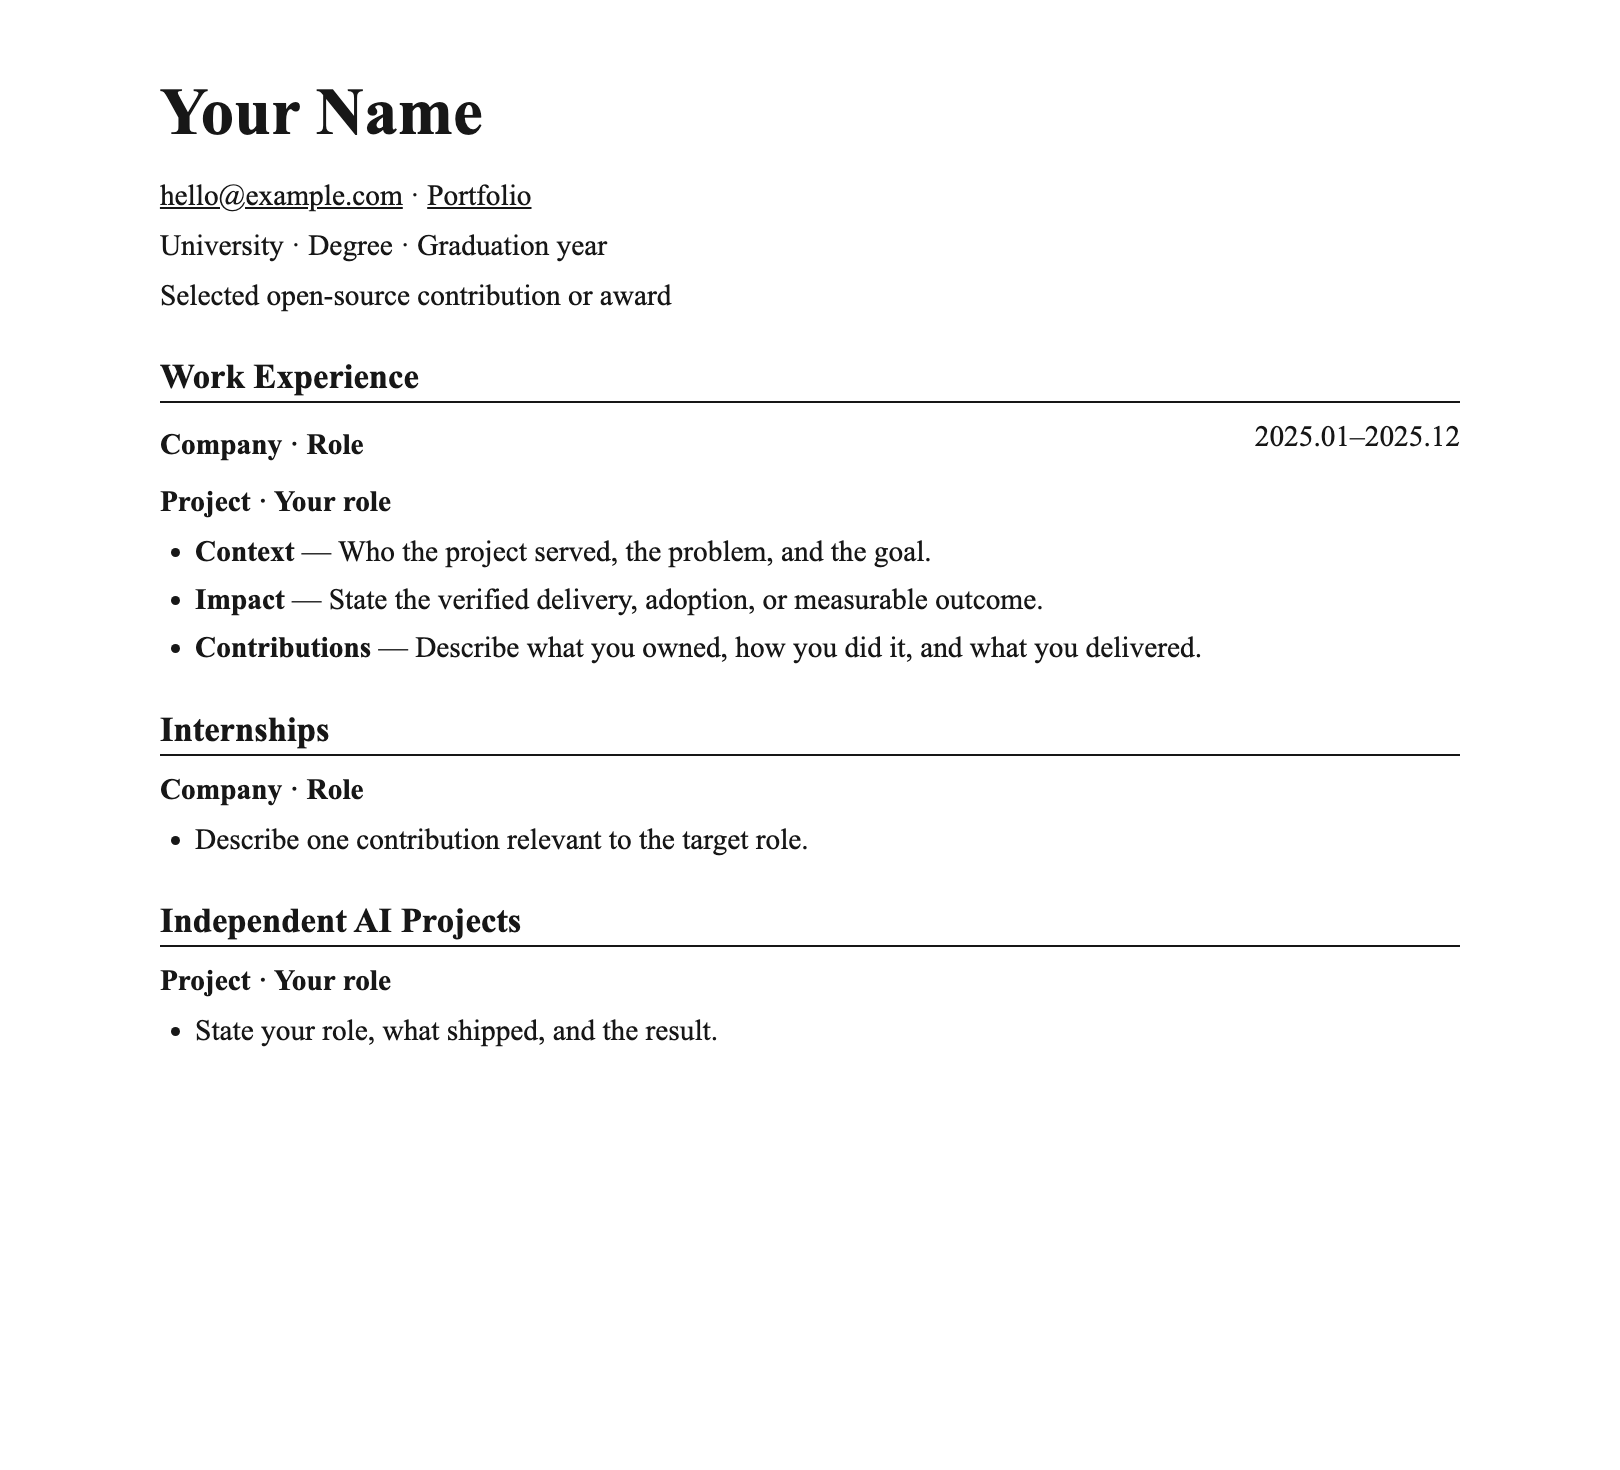
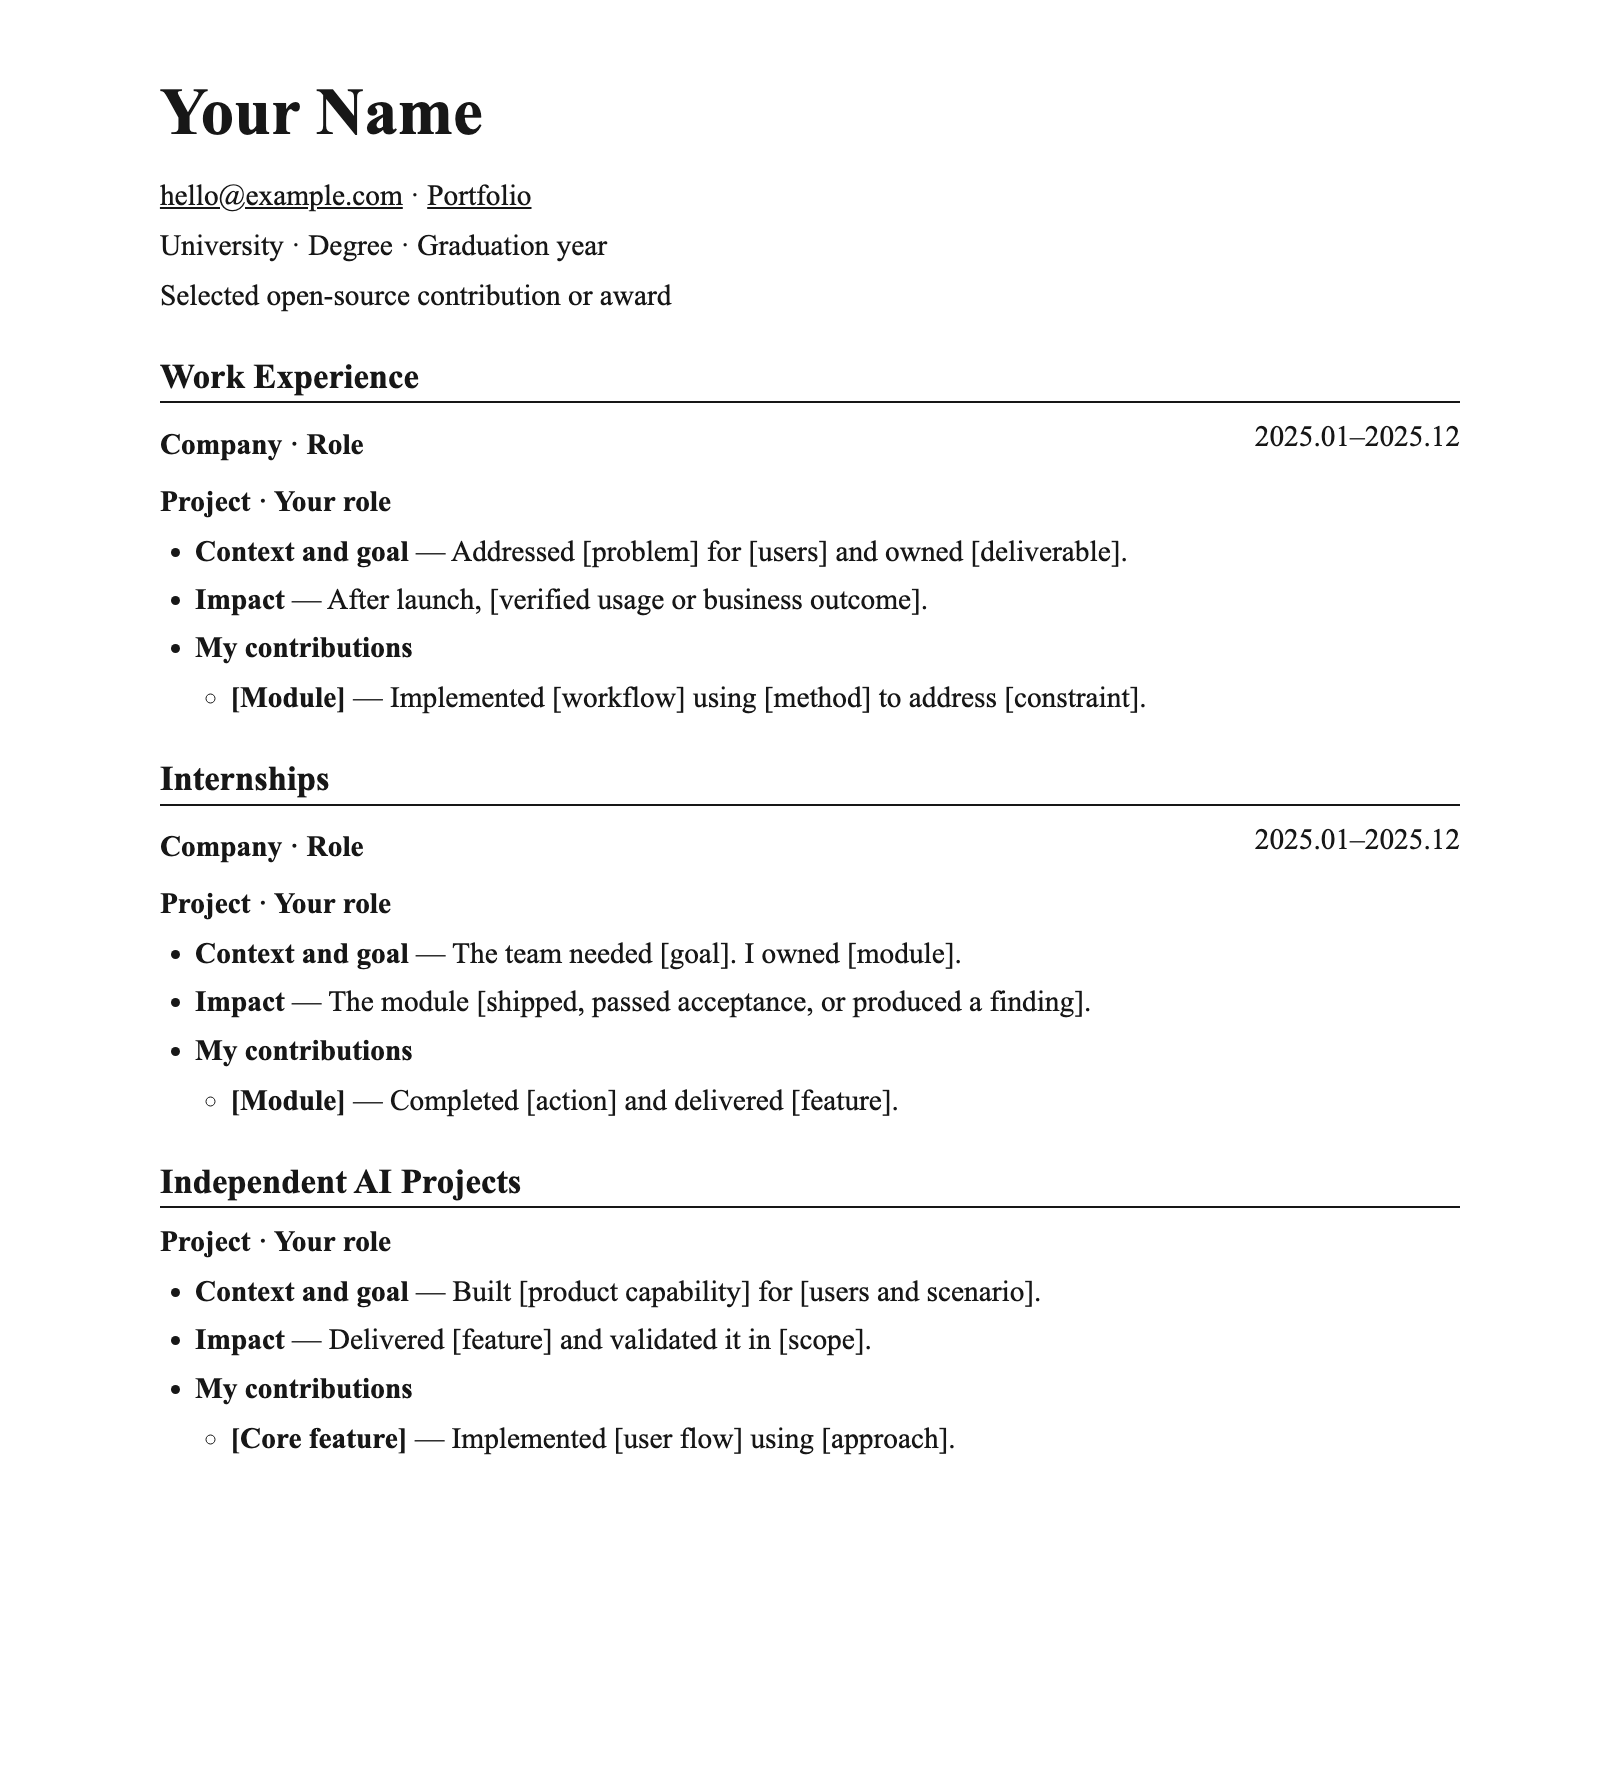
Write clearer Chinese and apply STAR to every resume project

diff --git a/skills/resume-engineering/references/examples.md b/skills/resume-engineering/references/examples.md
@@ -1,38 +1,36 @@
-# 改写示例
+# 项目经历怎么写
 
-以下两例取自真实简历项目。成稿沿用「背景」「指标与效果」「我的职责」的顺序，之后附 STAR 拆解。
+两个示例都来自真实简历。每个项目先用 STAR 理清事实，再把它们写成可投递的简历正文。
 
-## 真实项目改写 · AI 封面图生成工具
+## AI 封面图生成工具
+
+### STAR 拆解
 
 - **S · 情境**：多平台内容创作者需要按不同平台的尺寸制作封面。
 - **T · 任务**：搭建生成工具，让创作者选平台、提交素材后即可预览和下载。
 - **A · 行动**：用 Next.js 实现平台尺寸预设、主体上传与风格参考图输入，将平台场景和风格关键词编入提示词，接入图像生成 API。
 - **R · 结果**：工具支持生成并下载适配多个平台尺寸的封面，付费用户可批量生成和导出高清图。
 
-**AI 封面图生成工具**
+### 简历写法
 
-- **背景与目标**：面向多平台内容创作者，提供从选择平台尺寸、提交素材到生成封面的工作流。
-- **我的职责 · 生成链路**：用 Next.js 实现平台尺寸预设、主体上传和风格参考图输入，将平台场景和风格关键词编入提示词，接入图像生成 API，支持多尺寸封面生成、预览与下载。
-- **我的职责 · 付费能力**：搭建免费额度与订阅流程，为订阅用户提供批量生成和高清导出。
-
-结果写到已支持的能力。素材未提供点击率变化的测量数据。
+- **背景与目标**：为在多个平台发布内容的创作者搭建封面图工具。创作者选好平台、上传素材，就能生成符合平台尺寸的封面。
+- **指标与效果**：工具已支持多平台封面生成、预览和下载，订阅用户还可以批量生成并导出高清图。
+- **我的职责**：用 Next.js 实现尺寸预设、主体上传和风格参考图输入。根据平台场景和风格要求组织提示词，再调用图像生成 API。搭建免费额度和订阅流程。
 
 ## 真实项目改写 · EC-Monica 电商产运 Agent
 
-### 简历成稿
+### STAR 拆解
 
-**EC-Monica 电商产运 Agent**
+- **S · 情境**：电商产品、运营和研发需要查业务数据、判断指标波动的原因，并整理成报告。
+- **T · 任务**：从零设计并落地可处理这些任务的电商产运 Agent。
+- **A · 行动**：实现任务路由、业务工具注册和上下文管理，让 Agent 能从取数逐步推进到生成报告。
+- **R · 结果**：用上线调用量、任务分布和单次报告耗时说明实际使用情况。原稿未提供统计周期或样本量。
+
+### 简历写法
 
 - **背景**：为产品、运营、研发提供电商业务 Agent，支持数据分析与报告生成、业务归因与需求文档解析，缩短业务分析和报告编写所需时间。
 - **指标与效果**：上线后月均调用 600+ 次，报告类任务占比约 55%，需求与归因解析类任务占比约 45%。单次分析报告原先人工编写需 1–2 小时，使用 Agent 生成需 5–15 分钟。
-- **我的职责**：作为项目负责人，从 0 到 1 完成设计和落地。
-  - **Agentic Workflow**：识别用户意图后，根据任务选择调用工具或直接生成。需要查数时，从 Tool Registry 选择工具，循环获取数据并生成子结论，最后汇总为报告。工具层封装超时重试和错误分类，调用失败时降级为直接生成。
+- **我的职责**：作为项目负责人，从零设计并上线这套 Agent。
+  - **Agentic Workflow**：先判断用户要查数还是直接生成内容。需要查数时，逐轮调用工具、整理阶段结论，最后汇总成报告。工具层会区分错误类型，遇到超时可以重试，调用仍失败时切换到直接生成。
   - **Tool Registry**：通过配置动态注册 FunctionSchema，统一管理用户行为、GMV、渠道和商品四类分析工具。新增分析维度时可通过扩展配置接入工具。
   - **Context Engineering**：用 Python 计算同比、环比，再将结果写入模型上下文。把业务范文和运营分析模板作为 Few-shot 样例，引导报告格式。多轮分析中对工具返回的内容做摘要，并用滑动窗口保留近期观察和前轮结论。
-
-### STAR 拆解
-
-- **S**：电商产品、运营与研发有数据分析、归因和报告编写需求。
-- **T**：从零设计并落地可处理这些任务的电商产运 Agent。
-- **A**：实现任务路由、业务工具注册和上下文管理，让 Agent 能从取数逐步推进到生成报告。
-- **R**：用上线调用量、任务分布和单次报告耗时说明实际使用情况。原稿未提供统计周期或样本量。

diff --git a/skills/resume-engineering/references/workflow.en.md b/skills/resume-engineering/references/workflow.en.md
@@ -1,5 +1,7 @@
 # STAR workflow for AI resumes
 
+Apply STAR to every project, including work, internships, open-source contributions, and independent projects. The final resume can combine the four elements into short bullets.
+
 1. Extract **Situation** (users, problem, constraints), **Task** (goal and personal ownership), **Action** (decisions, mechanisms, and tradeoffs), and **Result** (verified outcome, scope, and attribution). Use the supplied material as the source of truth. If the user supplies only a job description, ask up to three focused questions to gather relevant STAR material.
 2. Choose and order projects by the work the target role actually does. Research and training may emphasize baselines and ablations. Application and platform roles may emphasize workflows, reliability, latency, or cost. Data, safety, and evaluation may emphasize dataset coverage, scoring criteria, and verified findings. Product, design, governance, and customer-facing roles may emphasize user research, acceptance criteria, adoption, or completed remediation.
 3. Draft **Context and goal**, then **My contributions**. Start each contribution with a short heading and describe one decision or delivery. Explain the mechanism or workflow when it clarifies the contribution. Use ownership verbs that reflect the candidate's actual responsibility. For a short resume, combine context, action, and result in a single bullet.
@@ -23,6 +25,13 @@ The source describes shipped capabilities and provides no measured change in cli
 
 ## Real project example · EC-Monica, an e-commerce operations agent
 
+### STAR notes
+
+- **Situation** — E-commerce product, operations, and engineering teams needed to interpret experiments and dashboards, write reports, investigate metric changes, and analyze requirements.
+- **Task** — Own EC-Monica from initial design through launch.
+- **Action** — Route requests by intent, register tools through configuration, calculate year-over-year and period-over-period metrics in Python, and synthesize intermediate findings into reports. Add tool failure handling and use examples, summaries, and a sliding window to guide multi-turn analysis.
+- **Result** — The resume records 600+ calls per month on average. About 55% were reporting tasks and 45% were requirements or attribution tasks. A single report took 1–2 hours to write manually and 5–15 minutes to generate with the agent. The source does not specify the observation period or sample size.
+
 ### Resume-ready entry
 
 **EC-Monica · E-commerce Operations Agent**
@@ -33,10 +42,3 @@ The source describes shipped capabilities and provides no measured change in cli
   - **Agentic workflow** — Routed requests by intent to tool calls or direct generation. Executed tools iteratively, produced intermediate findings, and synthesized reports. Added timeouts, retries, error classification, and a direct-generation fallback.
   - **Tool registry** — Registered function schemas through configuration across user behavior, GMV, acquisition channels, and product analysis. Added analysis tools by extending the configuration.
   - **Context engineering** — Calculated year-over-year and period-over-period metrics in Python, added report examples and operations templates, and carried forward key findings with summaries and a sliding window.
-
-### STAR notes
-
-- **Situation** — E-commerce product, operations, and engineering teams needed to interpret experiments and dashboards, write reports, investigate metric changes, and analyze requirements.
-- **Task** — Own EC-Monica from initial design through launch.
-- **Action** — Route requests by intent, register tools through configuration, calculate year-over-year and period-over-period metrics in Python, and synthesize intermediate findings into reports. Add tool failure handling and use examples, summaries, and a sliding window to guide multi-turn analysis.
-- **Result** — The resume records 600+ calls per month on average. About 55% were reporting tasks and 45% were requirements or attribution tasks. A single report took 1–2 hours to write manually and 5–15 minutes to generate with the agent. The source does not specify the observation period or sample size.

diff --git a/README.en.md b/README.en.md
@@ -109,20 +109,38 @@ Copy the code into `resume.html`, open it in a browser, and use the print menu t
       </div>
       <p><strong>Project · Your role</strong></p>
       <ul>
-        <li><strong>Context</strong> — Who the project served, the problem, and the goal.</li>
-        <li><strong>Impact</strong> — State the verified delivery, adoption, or measurable outcome.</li>
-        <li><strong>Contributions</strong> — Describe what you owned, how you did it, and what you delivered.</li>
+        <li><strong>Context and goal</strong> — Addressed [problem] for [users] and owned [deliverable].</li>
+        <li><strong>Impact</strong> — After launch, [verified usage or business outcome].</li>
+        <li><strong>My contributions</strong>
+          <ul><li><strong>[Module]</strong> — Implemented [workflow] using [method] to address [constraint].</li></ul>
+        </li>
       </ul>
     </section>
     <section>
       <h2>Internships</h2>
-      <h3>Company · Role</h3>
-      <ul><li>Describe one contribution relevant to the target role.</li></ul>
+      <div class="entry-heading">
+        <h3>Company · Role</h3>
+        <span><time datetime="2025-01">2025.01</time>–<time datetime="2025-12">2025.12</time></span>
+      </div>
+      <p><strong>Project · Your role</strong></p>
+      <ul>
+        <li><strong>Context and goal</strong> — The team needed [goal]. I owned [module].</li>
+        <li><strong>Impact</strong> — The module [shipped, passed acceptance, or produced a finding].</li>
+        <li><strong>My contributions</strong>
+          <ul><li><strong>[Module]</strong> — Completed [action] and delivered [feature].</li></ul>
+        </li>
+      </ul>
     </section>
     <section>
       <h2>Independent AI Projects</h2>
       <h3>Project · Your role</h3>
-      <ul><li>State your role, what shipped, and the result.</li></ul>
+      <ul>
+        <li><strong>Context and goal</strong> — Built [product capability] for [users and scenario].</li>
+        <li><strong>Impact</strong> — Delivered [feature] and validated it in [scope].</li>
+        <li><strong>My contributions</strong>
+          <ul><li><strong>[Core feature]</strong> — Implemented [user flow] using [approach].</li></ul>
+        </li>
+      </ul>
     </section>
   </main>
 </body>

diff --git a/skills/resume-engineering/SKILL.md b/skills/resume-engineering/SKILL.md
@@ -4,14 +4,20 @@ description: Writes, reviews, and tailors resumes for AI-related technical and n
 license: MIT
 ---
 
-# AI 岗位简历写作
+# 用 STAR 法则写 AI 求职简历
 
-把项目和工作素材压缩成招聘方能快速扫读、面试时能追问的项目经历。默认用用户要求的语言呈现。保留源材料中的英文技术名词，首次出现的内部缩写用通用术语交代。
+把工作和项目素材写成招聘方能快速读懂、面试时能深入追问的简历。默认用用户要求的语言呈现。保留源材料中的英文技术名词，首次出现的内部缩写用通用术语交代。
 
 ## 整份简历与结构重组
 
 - 用户要求从零写整份简历、改整份简历或调整栏目顺序时，读取 [整份简历结构](references/resume-structure.md)。先整理页首、工作、实习、独立项目和适用的其他栏目，再为其中的项目写 STAR。交付完整成稿。
 - 用户要求 LaTeX、PDF 或论文风格排版时，按结构说明选用 [单栏 LaTeX 模板](templates/resume.tex)。首选一页、黑白和清晰标题层级。排版要求本身无需把聊天正文转换成 LaTeX，除非用户需要源文件或 PDF。
+
+## 每个项目都用 STAR
+
+写整份简历、重组旧稿或只改一段时，对成稿里的每个项目单独核对 S、T、A、R。工作、实习、开源和独立项目都适用。背景和目标交代 S、T，职责写 A，指标、交付或验证写 R。短版可以合并成一两条，但仍须让读者看懂这四项。无需把 S、T、A、R 字母写进投递稿。
+
+素材没有量化数据时，从已交付功能、采纳记录或验证发现提取 R。连实际交付或验证都无法确认时，先在稿外列出缺少的事实，有其他证据充分的项目时优先采用。用户明确要求保留时，按已经确认的阶段写。
 
 ## 从素材到简历
 
